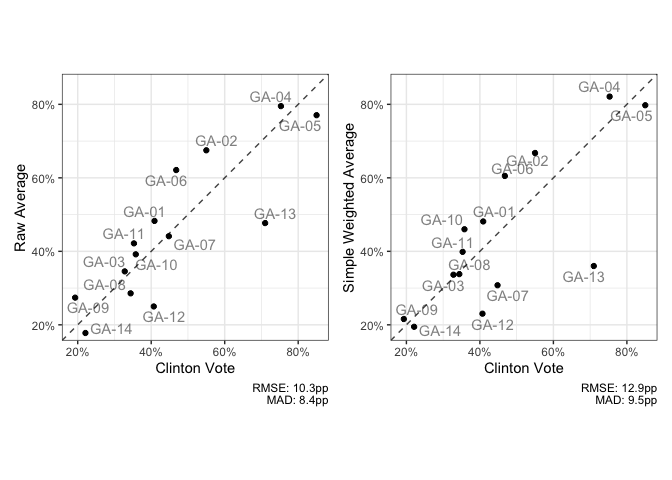
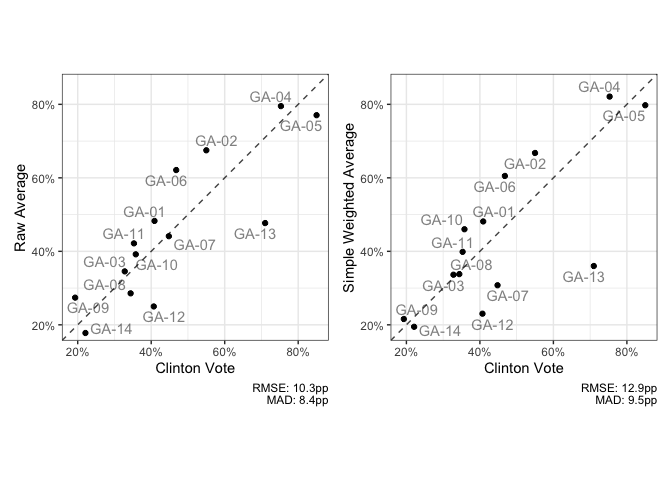
Update README

diff --git a/README.md b/README.md
@@ -20,7 +20,7 @@ remotes::install_github("kuriwaki/ccesMRPrun")
 
 The **main functions** in this package are:
 
-1.  `fit_brms_binomial` for fitting a multilevel model
+1.  `fit_brms` for fitting a multilevel model (or `fit_brms_binomial`)
 2.  `poststrat_draws` for extracting posterior draws for each area
 3.  `summ_sims` for obtaining summary statistics from these draws
 4.  `scatter_45` for clearly visualizing the relationship between the
@@ -39,17 +39,15 @@ This is a simple wrapper around `brms::brm` but with some custom priors
 and a binomial model as a default.
 
 ``` r
-ff <- "yes | trials(n_response) ~ (1|age) + (1 + female |educ) + clinton_vote + (1|cd)"
+form <- "response ~ (1|age) + (1 + female |educ) + clinton_vote + (1|cd)"
 
 cc_voters <- filter(cces_GA, vv_turnout_gvm == "Voted")
 
 # turn into counts
-cc_count <- ccesMRPprep::build_counts(data = cc_voters,
-                                      model_ff = ff)
-
-fit <- fit_brms_binomial(ff, cc_count, verbose = FALSE)
+fit <- fit_brms(form, cc_voters, verbose = FALSE)
 ```
 
+    ## yes | trials(n_response) ~ (1 | age) + (1 + female | educ) + clinton_vote + (1 | cd)
     ## Running /Library/Frameworks/R.framework/Resources/bin/R CMD SHLIB foo.c
     ## clang -mmacosx-version-min=10.13 -I"/Library/Frameworks/R.framework/Resources/include" -DNDEBUG   -I"/Library/Frameworks/R.framework/Versions/4.0/Resources/library/Rcpp/include/"  -I"/Library/Frameworks/R.framework/Versions/4.0/Resources/library/RcppEigen/include/"  -I"/Library/Frameworks/R.framework/Versions/4.0/Resources/library/RcppEigen/include/unsupported"  -I"/Library/Frameworks/R.framework/Versions/4.0/Resources/library/BH/include" -I"/Library/Frameworks/R.framework/Versions/4.0/Resources/library/StanHeaders/include/src/"  -I"/Library/Frameworks/R.framework/Versions/4.0/Resources/library/StanHeaders/include/"  -I"/Library/Frameworks/R.framework/Versions/4.0/Resources/library/RcppParallel/include/"  -I"/Library/Frameworks/R.framework/Versions/4.0/Resources/library/rstan/include" -DEIGEN_NO_DEBUG  -DBOOST_DISABLE_ASSERTS  -DBOOST_PENDING_INTEGER_LOG2_HPP  -DSTAN_THREADS  -DBOOST_NO_AUTO_PTR  -include '/Library/Frameworks/R.framework/Versions/4.0/Resources/library/StanHeaders/include/stan/math/prim/mat/fun/Eigen.hpp'  -D_REENTRANT -DRCPP_PARALLEL_USE_TBB=1   -I/usr/local/include   -fPIC  -Wall -g -O2  -c foo.c -o foo.o
     ## In file included from <built-in>:1:
@@ -113,12 +111,12 @@ summary(fit)
 
 # Poststratification
 
-There are two main methods in this package: modeling and
+We can take predicted values from each of the MCMC draws, and aggregate
+it up to the area of interest.
 
 ``` r
 drw <- poststrat_draws(fit, 
-                       poststrat_tgt = acs_GA,
-                       orig_data = cc_count)
+                       poststrat_tgt = acs_GA)
 drw
 ```
 
@@ -183,12 +181,9 @@ mrp_val <- summ_sims(drw) %>%
 A wrapper for visualizing the accuracy relationship
 
 ``` r
-library(ggrepel)
-
-scatter_45(mrp_val, clinton_vote, p_mrp_est,
+scatter_45(mrp_val, clinton_vote, p_mrp_est, cd,
            xlab = "Clinton Vote",
-           ylab = "MRP Estimate") +
-  geom_text_repel(aes(label = cd), alpha = 0.5)
+           ylab = "MRP Estimate")
 ```
 
 <img src="README_files/figure-gfm/mrp-plot-1.png" style="display: block; margin: auto;" />
